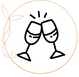
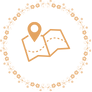
bakground add

diff --git a/Convite/styles.css b/Convite/styles.css
@@ -22,6 +22,7 @@ html {
 header {
     display: flex;
     justify-content: center;
+    padding: 1%;
 }
 
 /* Corpo */
@@ -29,6 +30,9 @@ body {
     margin: 0;
     padding: 0;
     text-decoration: none;
+    background-image: url('assets/bakground\(1920\ x\ 1080\ px\).png'); /* Imagem de fundo */
+    background-size: cover; /* Cobrir toda a área do body */
+    background-position: center; /* Centralizar a imagem */
 }
 
 /* Versículo */
@@ -36,19 +40,22 @@ body {
     display: flex;
     justify-content: center;
     font-family: 'Cormorant Garamond', sans-serif;
-    font-size: 12px;
+    font-size: 1em;
     font-weight: 100;
     text-align: center;
+    padding: 2%;
 }
 
 /* Família */
 .familia {
     display: flex;
     justify-content: center;
-    gap: 5%;
-    padding-bottom: 5%;
+    flex-direction: row;
+    align-items: center;
+    gap: 2%;
+    padding-bottom: 2%;
     font-family: 'Cormorant Garamond', sans-serif;
-    font-size: 12px;
+    font-size: 1em;
     font-weight: 100;
 }
 
@@ -57,6 +64,7 @@ body {
 .paisMatheus {
     display: flex;
     flex-direction: column;
+    align-items: center;
 }
 
 /* Cleide e Paulo */
@@ -75,7 +83,7 @@ body {
     align-items: center;
     color: #E4A461;
     padding-bottom: 2%;
-    font-size: 18px;
+    font-size: 1.5em;
 }
 
 /* Ana, Matheus */
@@ -96,9 +104,11 @@ body {
 .data {
     display: flex;
     justify-content: center;
-    gap: 0.5%;
+    flex-direction: row;
+    align-items: center;
     color: #E4A461;
-    padding-bottom: 2%;
+    padding-bottom: 1%;
+    font-size: 1.5em;
 }
 
 /* Setembro */
@@ -111,17 +121,17 @@ body {
 
 /* id mês ano e dia */
 #mes {
-    font-size: 20px;
+    font-size: 1.5em;
     margin-bottom: 1px;
 }
 
 #ano {
-    font-size: 20px;
+    font-size: 1.5em;
     margin-top: -1px;
 }
 
 #dia {
-    font-size: 50px;
+    font-size: 3em;
     margin-top: -15px;
 }
 
@@ -140,7 +150,7 @@ body {
 .l {
     margin-bottom: 0;
     font-family: 'Cormorant Garamond', sans-serif;
-    font-size: 20px;
+    font-size: 1.5em;
     font-weight: 600;
 }
 
@@ -159,7 +169,7 @@ body {
     padding-top: 20px;
     display: flex;
     justify-content: center;
-    font-size: 9.5px;
+    font-size: 0.75em;
     gap: 1.5%;
     color: #E4A461;
 }
@@ -178,14 +188,178 @@ body {
     text-align: center;
 }
 
-/* Mídia Query para Telas de 430 x 932 */
-@media only screen and (max-width: 430px) and (max-height: 932px) {
-    /* Ajustes específicos para telas menores */
+.icones img {
+    width: 130px; /* Tamanho padrão para ícones */
+}
+
+/* Background Responsivo */
+@media only screen and (max-width: 1024px) {
+    body {
+        background-image: url('assets/bakground\(1024\ x\ 768\ px\).png');
+        background-size: cover;
+        background-position: center;
+    }
+}
+
+@media only screen and (max-width: 768px) {
+    body {
+        background-image: url('assets/bakground\(768\ x\ 1024\ px\).png');
+        background-size: cover;
+        background-position: center;
+    }
+}
+
+@media only screen and (max-width: 480px) {
+    body {
+        background-image: url('assets/bakground\(480\ x\ 800\ px\).png');
+        background-size: cover;
+        background-position: center;
+    }
+}
+
+/* Mídia Query para Telas de 768px ou menos */
+@media only screen and (max-width: 768px) {
     .familia {
-        gap: 2%;
+        gap: 1.5%;
+        font-size: 1em;
     }
 
     .icones {
-        font-size: 8px;
+        font-size: 0.8em;
+    }
+
+    .icones img {
+        width: 110px; /* Ajuste do tamanho dos ícones */
+    }
+
+    .versiculo {
+        font-size: 1em;
+        padding: 3%;
+    }
+
+    .nome {
+        font-size: 1.3em;
+    }
+
+    .data {
+        font-size: 1.3em;
+    }
+
+    #mes,
+    #ano {
+        font-size: 1.3em;
+    }
+
+    #dia {
+        font-size: 2.8em;
+    }
+
+    .saba,
+    .h,
+    .l {
+        font-size: 1.3em;
+    }
+
+    .saba,
+    .h {
+        width: 100px;
+    }
+}
+
+/* Mídia Query para Telas de 430px ou menos */
+@media only screen and (max-width: 430px) {
+    .familia {
+        gap: 1%;
+        font-size: 0.9em;
+    }
+
+    .icones {
+        font-size: 0.7em;
+    }
+
+    .icones img {
+        width: 90px; /* Ajuste do tamanho dos ícones */
+    }
+
+    .versiculo {
+        font-size: 0.9em;
+        padding: 5%;
+    }
+
+    .nome {
+        font-size: 1.2em;
+    }
+
+    .data {
+        font-size: 1.2em;
+    }
+
+    #mes,
+    #ano {
+        font-size: 1.2em;
+    }
+
+    #dia {
+        font-size: 2.5em;
+    }
+
+    .saba,
+    .h,
+    .l {
+        font-size: 1.2em;
+    }
+
+    .saba,
+    .h {
+        width: 90px;
+    }
+}
+
+/* Mídia Query para Telas de 320px ou menos */
+@media only screen and (max-width: 320px) {
+    .familia {
+        gap: 0.5%;
+        font-size: 0.8em;
+    }
+
+    .icones {
+        font-size: 0.6em;
+    }
+
+    .icones img {
+        width: 70px; /* Ajuste do tamanho dos ícones */
+    }
+
+    .versiculo {
+        font-size: 0.8em;
+        padding: 4%;
+    }
+
+    .nome {
+        font-size: 1em;
+    }
+
+    .data {
+        font-size: 1em;
+    }
+
+    #mes,
+    #ano {
+        font-size: 1em;
+    }
+
+    #dia {
+        font-size: 2em;
+    }
+
+    .saba,
+    .h,
+    .l {
+        font-size: 1em;
+    }
+
+    .saba,
+    .h {
+        width: 70px;
     }
 }

diff --git a/Convite/index.html b/Convite/index.html
@@ -11,9 +11,8 @@
 
 <body>
   <header>
-    <img src="assets/Ana_e_Matheus.png" alt="Ana e Matheus">
+    <img src="assets/Ana_e_Matheus.png" alt="Ana e Matheus" width="210px">
   </header>
-
   <div class="content">
     <div class="versiculo">
       <h2>"E, acima de tudo, tenham amor, pois o amor une <br> perfeitamente todas as coisas." Colossenses 3:14</h2>
@@ -54,11 +53,11 @@
   <footer>
     <div class="icones">
       <div class="local">
-        <a href="#"><img src="assets/localDaFesta.png" alt="Local da Festa"></a>
+        <a href="https://www.google.com/maps/dir//-17.7634333,-50.8802422/@-17.7635506,-50.8812284,369m/data=!3m1!1e3!4m2!4m1!3e0?entry=ttu"><img src="assets/localDaFesta.png" alt="Local da Festa"></a>
         <h2>LOCAL DA<br> FESTA</h2>
       </div>
       <div class="presenca">
-        <a href="#"><img src="assets/confirmaPresenca.png" alt="Confirmar Presença"></a>
+        <a href="https://forms.gle/znVHmJxSqxEpw1am8"><img src="assets/confirmaPresenca.png" alt="Confirmar Presença"></a>
         <h2>CONFIRMAR<br> PRESENÇA</h2>
       </div>
       <div class="avisos">
@@ -66,7 +65,7 @@
         <h2>AVISOS<br> IMPORTANTES</h2>
       </div>
       <div class="presentes">
-        <a href="#"><img src="assets/presentes.png" alt="Presentes"></a>
+        <a href="https://listapresente.havan.com.br/Convidado/ItensListaPresente/761027 "><img src="assets/presentes.png" alt="Presentes"></a>
         <h2>PRESENTES</h2>
       </div>
     </div>
